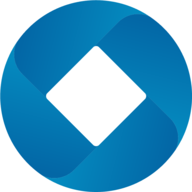
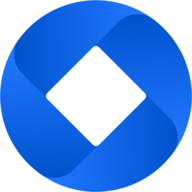
Layout adaptations and color scheme change
- Removed small caps from Get in touch CTA
- Swapped How and When
- How do we engage?
- Why Drumbeat (enlarge lft column to have it in one line)
- Remove address
- Reverted logo color change
- Set darkest blue color on title and background to #0B64D9

diff --git a/index.html b/index.html
@@ -64,10 +64,10 @@
                                     <a href="#home">Welcome</a>
                                 </li>
                                 <li>
-                                    <a href="#services">Services</a>
+                                    <a href="#when-drumbeat">When</a>
                                 </li>
                                 <li>
-                                    <a href="#when-drumbeat">When</a>
+                                    <a href="#services">Services</a>
                                 </li>
                                 <li>
                                     <a href="#why-drumbeat">Why Drumbeat</a>
@@ -131,11 +131,40 @@
                     </div>
                 </div>
 
-                <div id="services" class="section page-split" style="background-color: #0578A6; color: #fff;">
+                <div id="when-drumbeat" class="section page-split" style="background-color: #0052CC; color: #fff;">
                     <div class="section-wrapper block content-1170 center-relative">
                         <div class="section-title-holder float-left">
                             <h2 class="entry-title">
-                                How can Drumbeat help&nbsp;?
+                                When do I need Drumbeat&nbsp;?
+                            </h2>
+                        </div>
+                        <div class="section-content-holder float-right">
+                            <div class="content-wrapper">
+                                <div class="">
+                                    <p class="small-text">
+                                      Have you ever been in such a situation?
+                                    </p>
+                                    <ul>
+                                      <li>As a <strong>founder</strong>, I need a sounding board to formalise and communicate my product vision.</li>
+                                      <li>As an <strong>organisation</strong>, we need some help to articulate our product roadmap.</li>
+                                      <li>As a <strong>team</strong>, our backlog looks like a never ending to-do list, how can we better prioritise?</li>
+                                      <li>As a <strong>Head of Product</strong> or <strong>Chief Product Officer</strong>, I have grown <strong>Product Owners</strong> internally and would like to coach them further.</li>
+                                    </ul>
+                                    <p>
+                                      At Drumbeat, we have worked with multiple teams to address those challenges, taking into account their unique situation. We don’t promise any magic but we commit our experience and skills to help you improve, as a team.
+                                    </p>
+                                </div>
+                            </div>
+                        </div>
+                        <div class="clear"></div>
+                    </div>
+                </div>
+
+                <div id="services" class="section page-split">
+                    <div class="section-wrapper block content-1170 center-relative">
+                        <div class="section-title-holder float-left">
+                            <h2 class="entry-title">
+                                How do we engage&nbsp;?
                             </h2>
                         </div>
                         <div class="section-content-holder float-right">
@@ -165,36 +194,7 @@
                     </div>
                 </div>
 
-                <div id="when-drumbeat" class="section page-split">
-                    <div class="section-wrapper block content-1170 center-relative">
-                        <div class="section-title-holder float-left" data-background="#fff">
-                            <h2 class="entry-title">
-                                When do I need Drumbeat&nbsp;?
-                            </h2>
-                        </div>
-                        <div class="section-content-holder float-right">
-                            <div class="content-wrapper">
-                                <div class="">
-                                    <p class="small-text">
-                                      Have you ever been in such a situation?
-                                    </p>
-                                    <ul>
-                                      <li>As a <strong>founder</strong>, I need a sounding board to formalise and communicate my product vision.</li>
-                                      <li>As an <strong>organisation</strong>, we need some help to articulate our product roadmap.</li>
-                                      <li>As a <strong>team</strong>, our backlog looks like a never ending to-do list, how can we better prioritise?</li>
-                                      <li>As a <strong>Head of Product</strong> or <strong>Chief Product Officer</strong>, I have grown <strong>Product Owners</strong> internally and would like to coach them further.</li>
-                                    </ul>
-                                    <p>
-                                      At Drumbeat, we have worked with multiple teams to address those challenges, taking into account their unique situation. We don’t promise any magic but we commit our experience and skills to help you improve, as a team.
-                                    </p>
-                                </div>
-                            </div>
-                        </div>
-                        <div class="clear"></div>
-                    </div>
-                </div>
-
-                <div id="why-drumbeat" class="section page-split" style="background-color: #0578A6; color: #fff;">
+                <div id="why-drumbeat" class="section page-split" style="background-color: #0052CC; color: #fff;">
                     <div class="section-wrapper block content-1170 center-relative">
                         <div class="section-title-holder float-left">
                             <h2 class="entry-title">
@@ -225,7 +225,7 @@
                     <div class="section-wrapper block content-1170 center-relative">
                         <div class="content-wrapper">
                             <div class="last">
-                                <p class="small-text">We enjoy(ed) working with great&nbsp;teams</p><br>
+                                <p class="small-text">We enjoy working with great&nbsp;teams</p><br>
                             </div>
                             <div class="clear"></div>
                             <div class="one_fourth">
@@ -279,16 +279,11 @@
                     <div class="footer-mail">
                         <a href="mailto:hello@drumbeat.be">hello@drumbeat.be</a>
                     </div>
-                    <div class="footer-number">
-                        <a href="https://www.google.com/maps/dir//Silversquare+Triomphe+-+Coworking+space+in+Brussels,+Avenue+Arnaud+Fraiteur+15-23,+1050+Bruxelles/@50.8174044,4.3938236,17z/data=!4m9!4m8!1m0!1m5!1m1!1s0x47c3c4ce5e23da89:0x1f2c894982119708!2m2!1d4.3960176!2d50.8174044!3e0" target="_blank">Avenue Arnaud Fraiteur 15-23, 1050 Brussels</a>
-                    </div>
-
                     <div class="social-holder">
                         <a href="https://www.linkedin.com/company/drumbeat-product-management/">
                             <span class="fa fa-linkedin"></span>
                         </a>
                     </div>
-
                     <div class="copyright-holder">
                         © Drumbeat - All rights reserved
                     </div>
@@ -300,7 +295,6 @@
         <script src="js/jquery.js"></script>
         <script src="js/jquery.sticky.js"></script>
         <script src='js/imagesloaded.pkgd.js'></script>
-        <script src='js/jquery.fitvids.js'></script>
         <script src='js/jquery.smartmenus.min.js'></script>
         <script src='js/isotope.pkgd.js'></script>
         <script src='js/jquery.easing.1.3.js'></script>

diff --git a/style.css b/style.css
@@ -131,6 +131,10 @@ body p, body pre
     padding-left: 16px;
 }
 
+.content-wrapper p, .content-wrapper ul {
+    max-width: 700px;
+}
+
 .content-wrapper .small-text
 {
     color: #364259;
@@ -408,7 +412,7 @@ body .sm-clean a:hover, body .sm-clean li.active a
     line-height: 42px;
     text-align: center;
     margin-bottom: 0;
-    color: #0578A6;
+    color: #0052CC;
     padding-top: 0px;
     font-weight: 600;
 }
@@ -429,7 +433,7 @@ body .sm-clean a:hover, body .sm-clean li.active a
 
 .section-title-holder
 {
-    width: 300px;
+    max-width: 350px;
     position: relative;
 }
 
@@ -530,7 +534,7 @@ span.total-section-num
 #home h1
 {
     font-family: 'Montserrat', sans-serif;
-    color: #094899;
+    color: #0052CC;
     margin-bottom: 20px;
 }
 
@@ -542,7 +546,6 @@ span.total-section-num
 
 #home a.button
 {
-    font-variant: small-caps;
     background-color: #F2A616;
 }
 
@@ -550,8 +553,8 @@ span.total-section-num
   display: none;
 }
 
-#services .content-wrapper .small-text,
-#services div.section-wrapper div.section-title-holder h2.entry-title,
+#when-drumbeat .content-wrapper .small-text,
+#when-drumbeat div.section-wrapper div.section-title-holder h2.entry-title,
 #why-drumbeat .content-wrapper .small-text,
 #why-drumbeat div.section-wrapper div.section-title-holder h2.entry-title
 {
@@ -596,7 +599,7 @@ footer a:hover
 
 .footer-content
 {
-    padding-top: 80px;
+    padding-top: 50px;
     padding-bottom: 20px;
     width: 900px;
 }

diff --git a/js/main.js b/js/main.js
@@ -58,9 +58,6 @@ jQuery(document).on('ready', function () {
         jQuery(this).attr('placeholder', jQuery(this).data('placeholder'));
     });
 
-    //Fit Video
-    jQuery(".site-content").fitVids();
-
     //Fix for Default menu
     jQuery(".default-menu ul:first").addClass('sm sm-clean main-menu');
 
